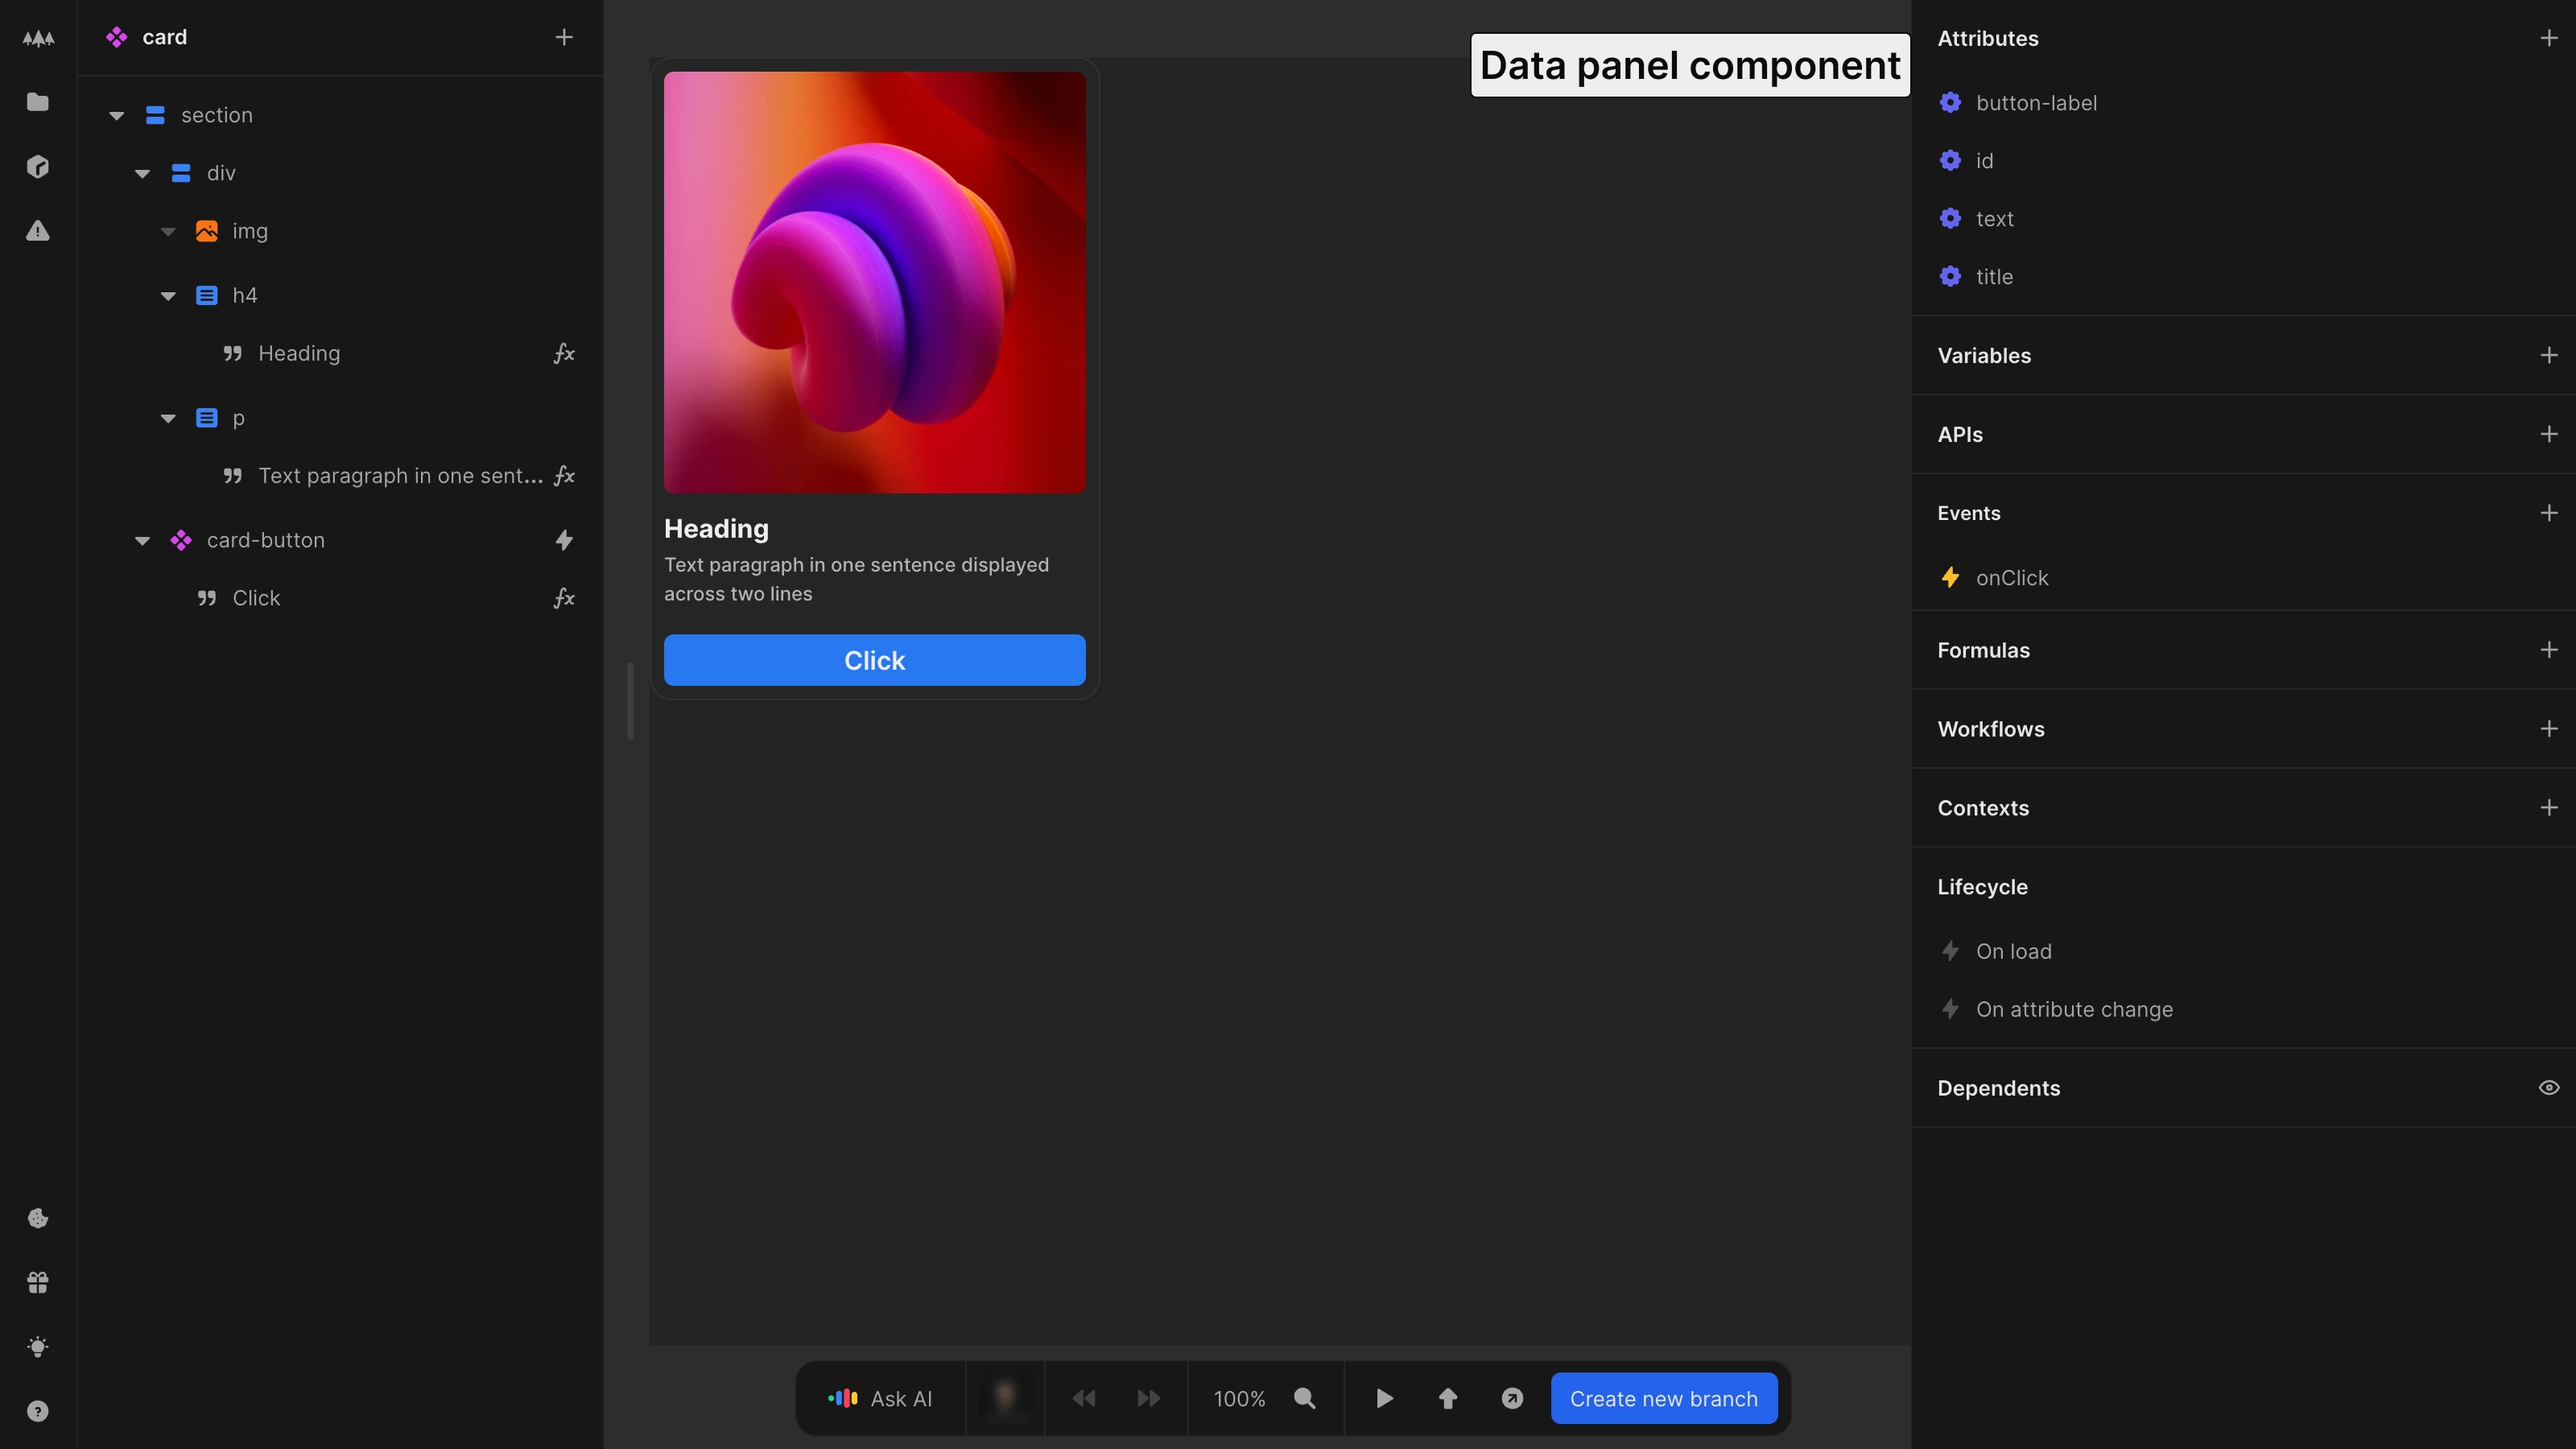
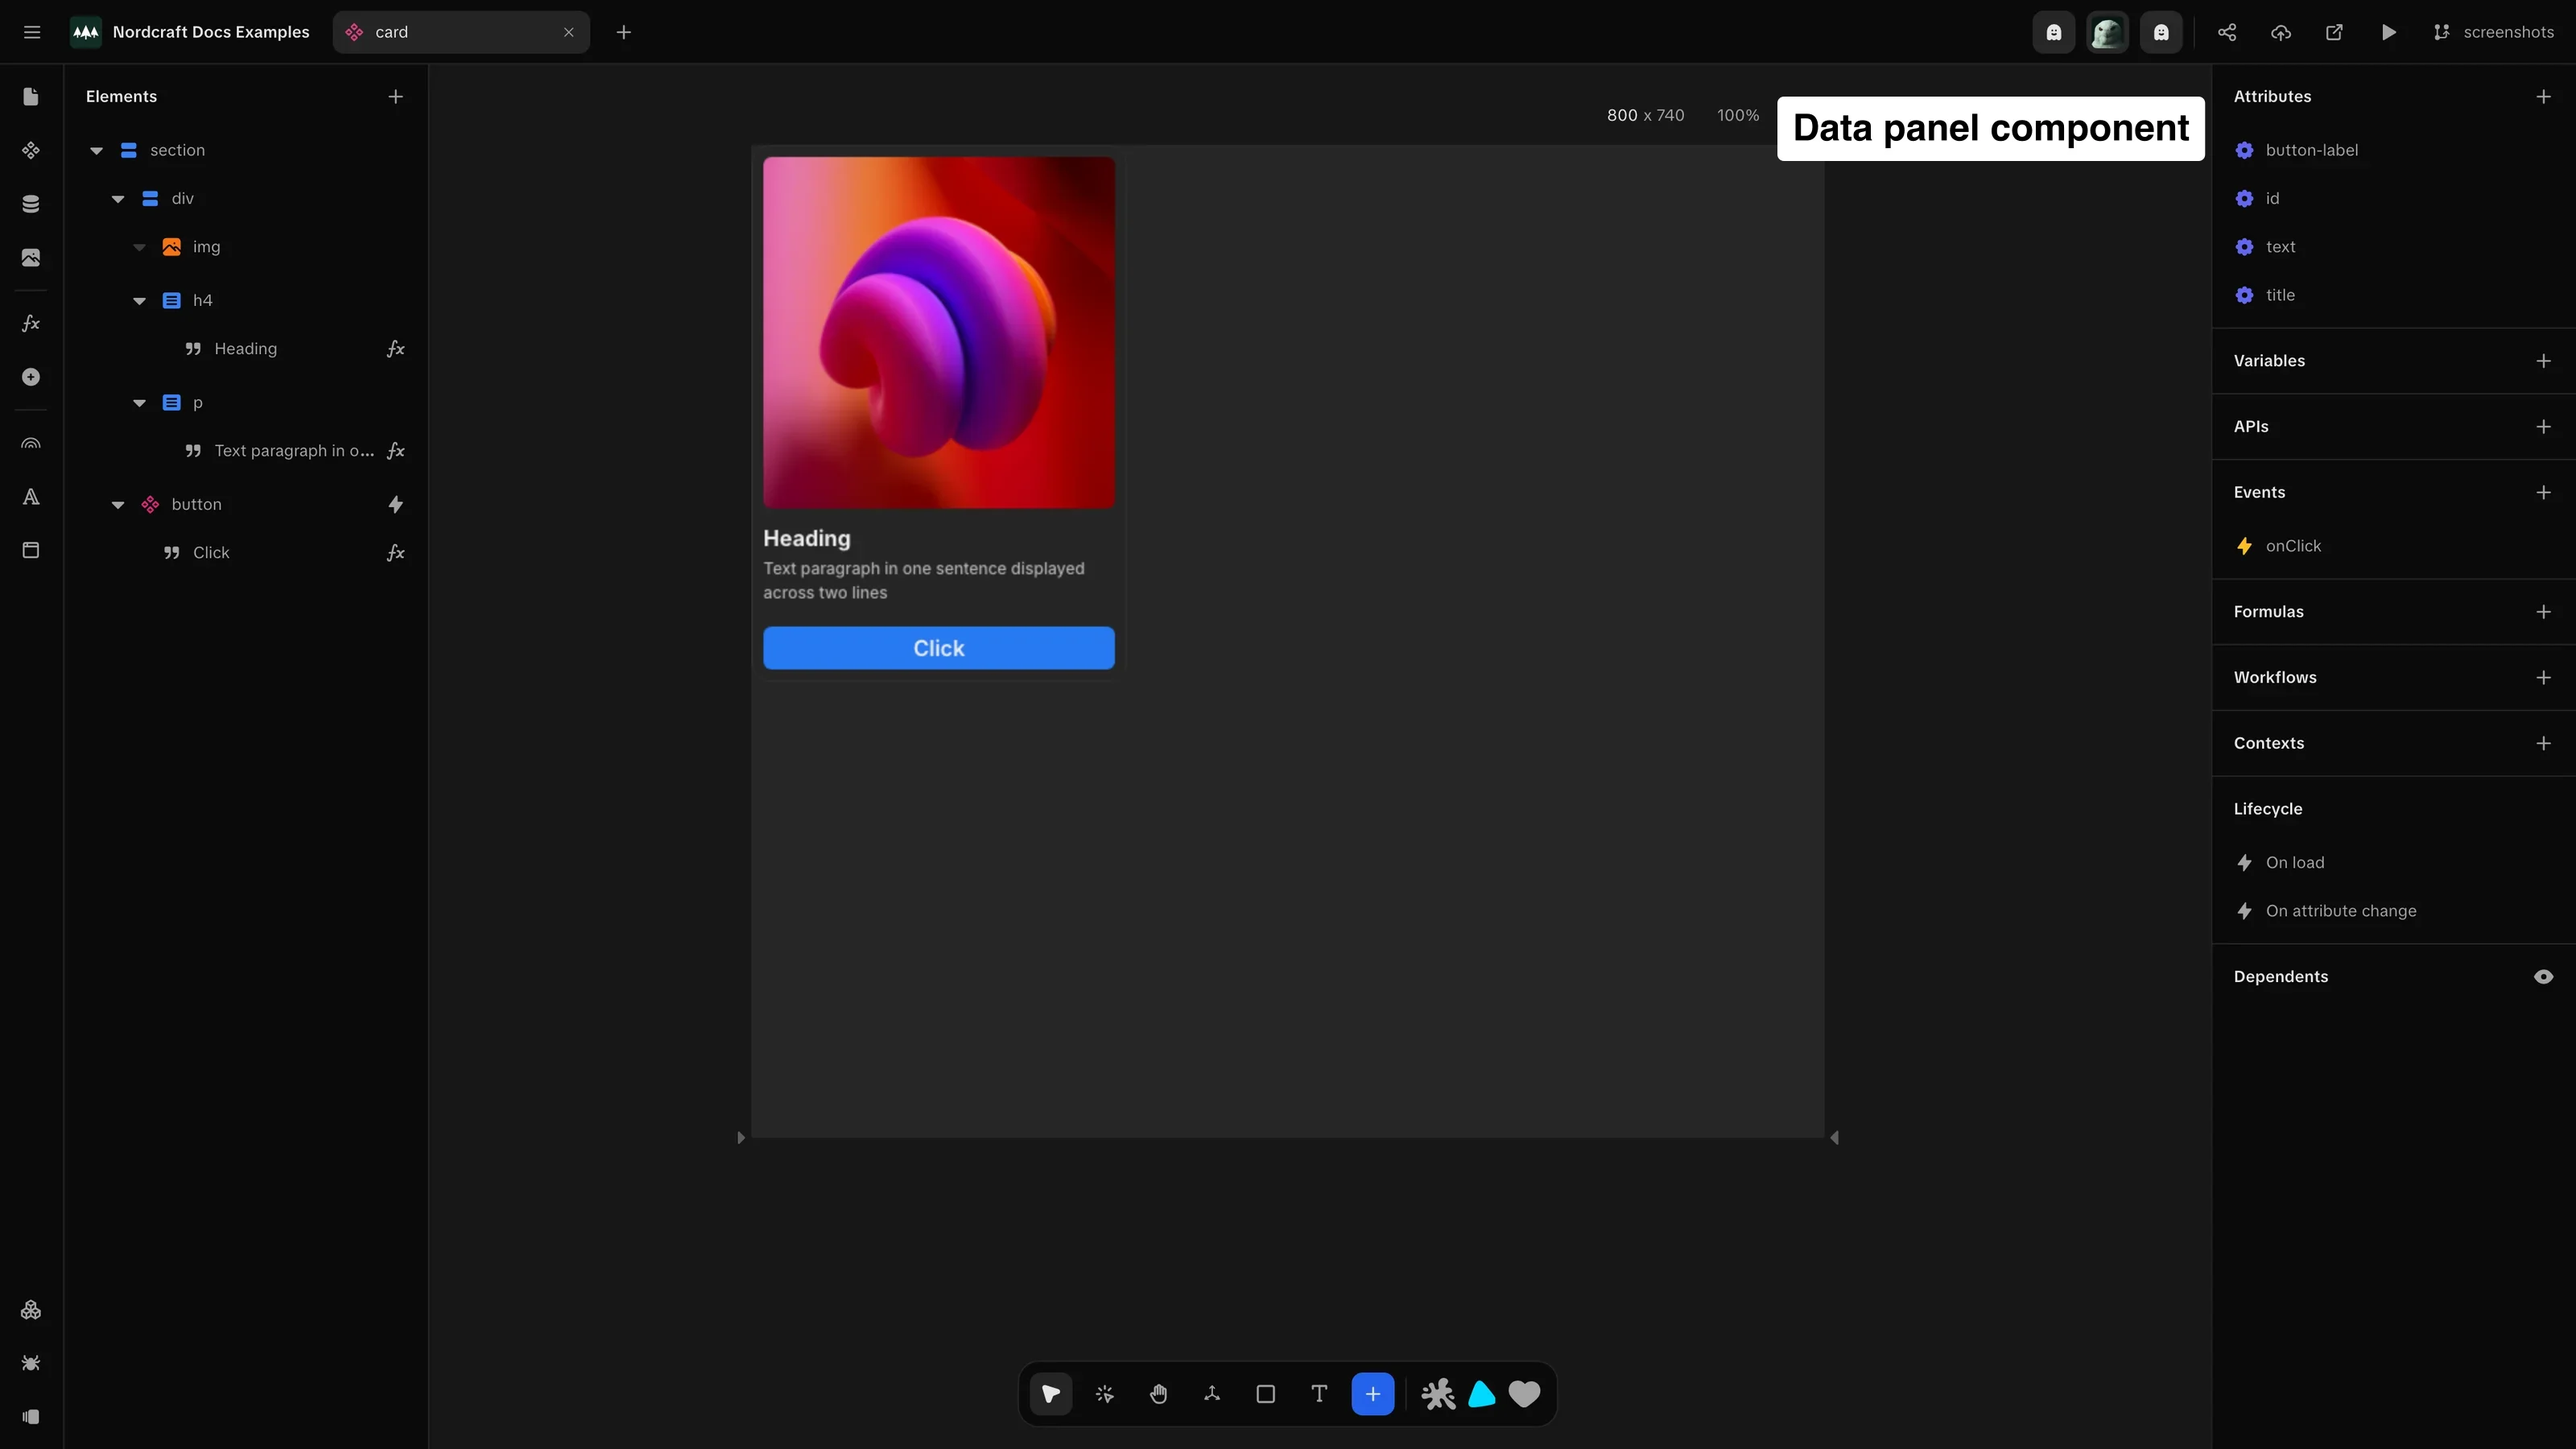
data panel component

diff --git a/docs/the-editor/data-panel/data-panel-component.screenshot.ts b/docs/the-editor/data-panel/data-panel-component.screenshot.ts
@@ -1,0 +1,18 @@
+import { defineScreenshot } from '@/scripts/capture-screenshots'
+import type { Page } from 'playwright'
+
+// Placeholder script for data-panel-component.webp
+export default defineScreenshot({
+  path: '/projects/docs_examples/branches/screenshots/components/card?mode=design&canvas-tool=select&canvas-width=800&rightpanel=attributes',
+  setup: async (page: Page) => {
+    await page.waitForTimeout(500)
+  },
+  annotations: [
+    {
+      type: 'text',
+      x: 552,
+      y: 30,
+      text: 'Data panel component '
+    }
+  ],
+})
